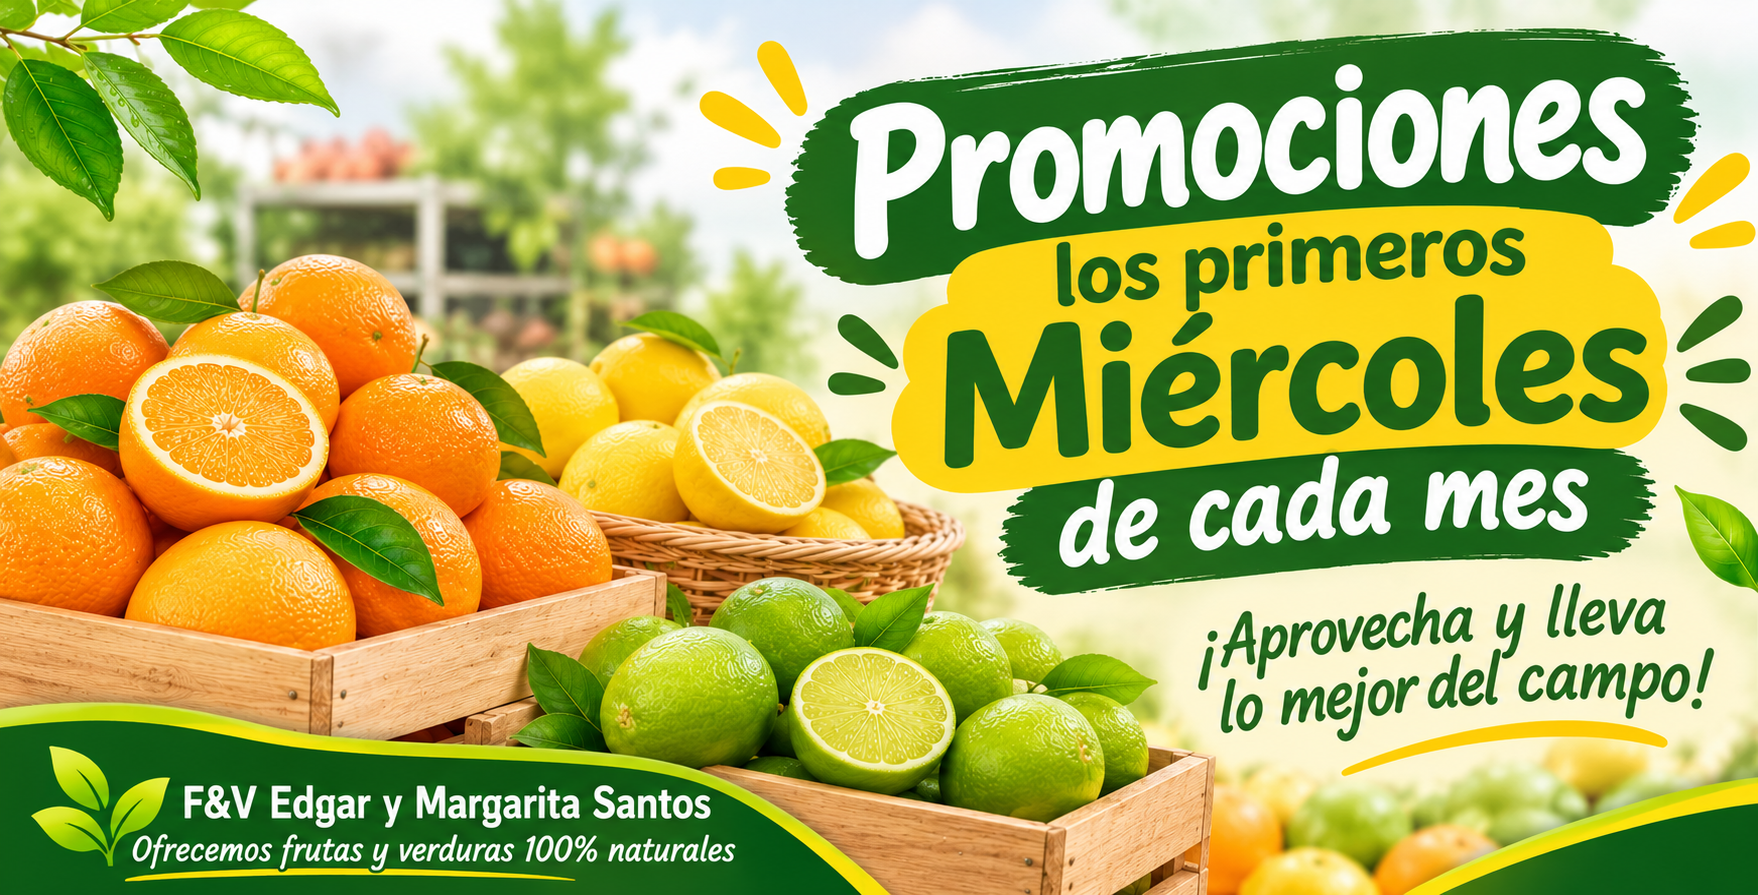
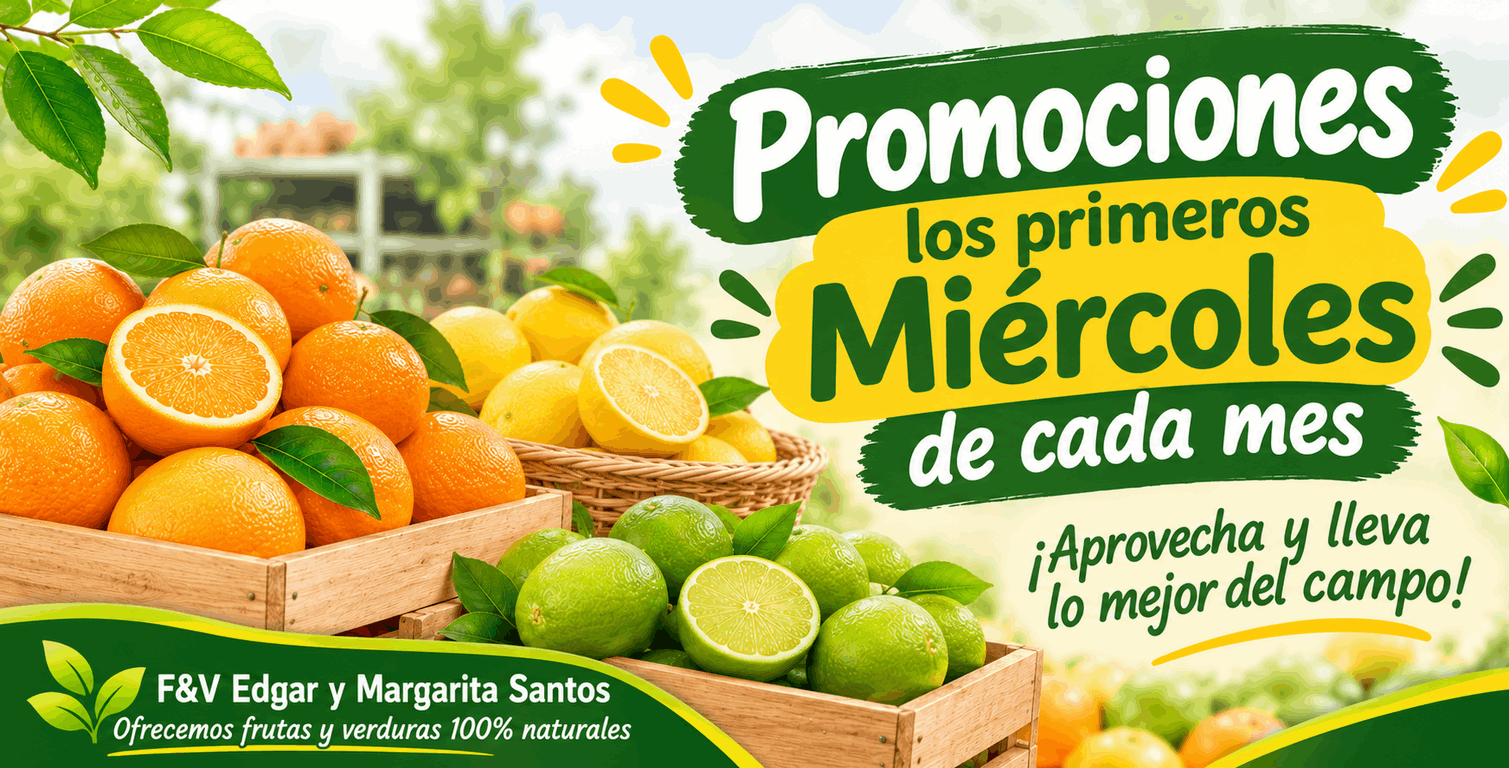
finalizacion de funcionalidades

diff --git a/JAVA/carrusel_imagenes.js b/JAVA/carrusel_imagenes.js
@@ -14,15 +14,13 @@ function currentSlide(n) {
 function showSlides(n) {
   let i;
   let slides = document.getElementsByClassName("mySlides");
-  let dots = document.getElementsByClassName("dot");
+
   if (n > slides.length) {slideIndex = 1}
   if (n < 1) {slideIndex = slides.length}
   for (i = 0; i < slides.length; i++) {
     slides[i].style.display = "none";
   }
-  for (i = 0; i < dots.length; i++) {
-    dots[i].className = dots[i].className.replace(" active", "");
-  }
+  
   slides[slideIndex-1].style.display = "block";
-  dots[slideIndex-1].className += " active";
+
 }

diff --git a/CSS/index-style.css b/CSS/index-style.css
@@ -261,11 +261,11 @@ div.box {
 /* Slideshow container */
 .slideshow-container {
   width: 100%;
-  max-width: 100%;      /* antes: 1000px, por eso se veía más angosto */
+  max-width: 100%;      
   position: relative;
-  margin: 20px 0;       /* separa el carrusel de la sección de arriba */
+  margin: 20px 0;       
   border-radius: 15px;
-  overflow: hidden;     /* recorta la imagen con las esquinas redondeadas */
+  overflow: hidden;    
   box-shadow: 0 4px 12px rgba(0, 0, 0, 0.08);
 }
 /* Hide the images by default */
